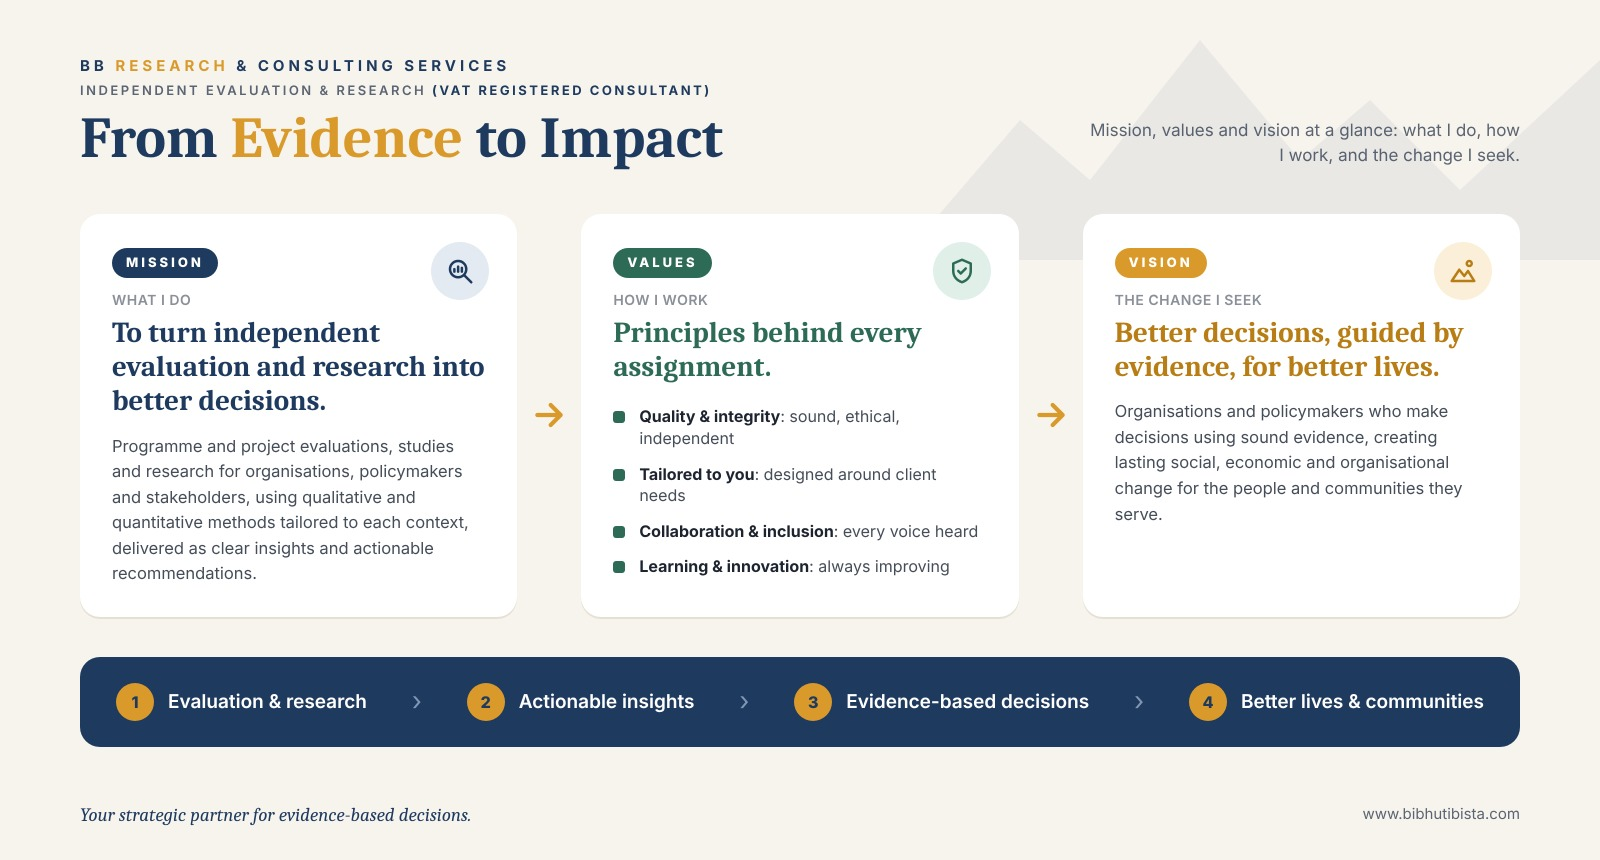
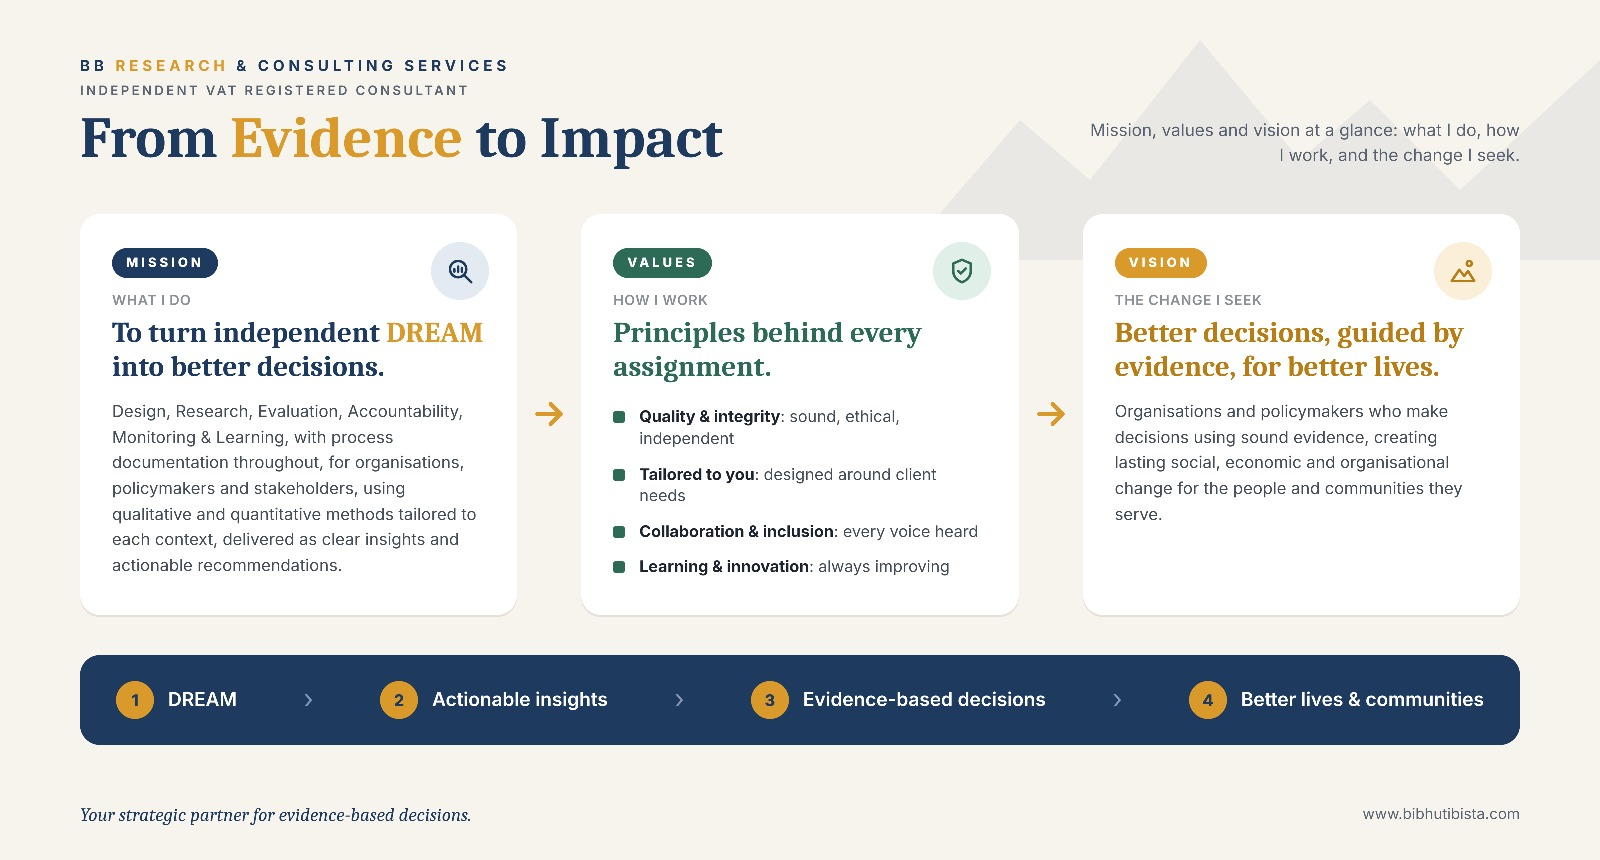
Update to MVO Modal

diff --git a/index.html b/index.html
@@ -30,8 +30,7 @@
             <div class="mvo-header">
                 <div>
                     <p class="mvo-brand">BB <span>Research</span> &amp; Consulting Services</p>
-                    <p class="mvo-tagline">Independent Evaluation &amp; Research <strong>(VAT Registered
-                            Consultant)</strong></p>
+                    <p class="mvo-tagline">Independent VAT Registered Consultant</p>
                     <h2 id="mvo-title">From <span>Evidence</span> to Impact</h2>
                 </div>
                 <p class="mvo-intro">Mission, values and vision at a glance: what I do, how I work, and the change I
@@ -50,10 +49,11 @@
                         </span>
                     </div>
                     <p class="mvo-eyebrow">What I do</p>
-                    <h3>To turn independent evaluation and research into better decisions.</h3>
-                    <p>Programme and project evaluations, studies and research for organisations, policymakers and
-                        stakeholders, using qualitative and quantitative methods tailored to each context, delivered
-                        as clear insights and actionable recommendations.</p>
+                    <h3>To turn independent <span class="mvo-highlight">DREAM</span> into better decisions.</h3>
+                    <p>Design, Research, Evaluation, Accountability, Monitoring &amp; Learning, with process
+                        documentation throughout, for organisations, policymakers and stakeholders, using qualitative
+                        and quantitative methods tailored to each context, delivered as clear insights and actionable
+                        recommendations.</p>
                 </div>
 
                 <span class="mvo-arrow" aria-hidden="true">&rarr;</span>
@@ -98,7 +98,7 @@
             </div>
 
             <ol class="mvo-steps">
-                <li>Evaluation &amp; research</li>
+                <li>DREAM</li>
                 <li>Actionable insights</li>
                 <li>Evidence-based decisions</li>
                 <li>Better lives &amp; communities</li>

diff --git a/styles.css b/styles.css
@@ -1454,7 +1454,8 @@ footer a:hover {
 }
 
 .mvo-brand span,
-#mvo-title span {
+#mvo-title span,
+.mvo-highlight {
     color: var(--mvo-gold);
 }
 
